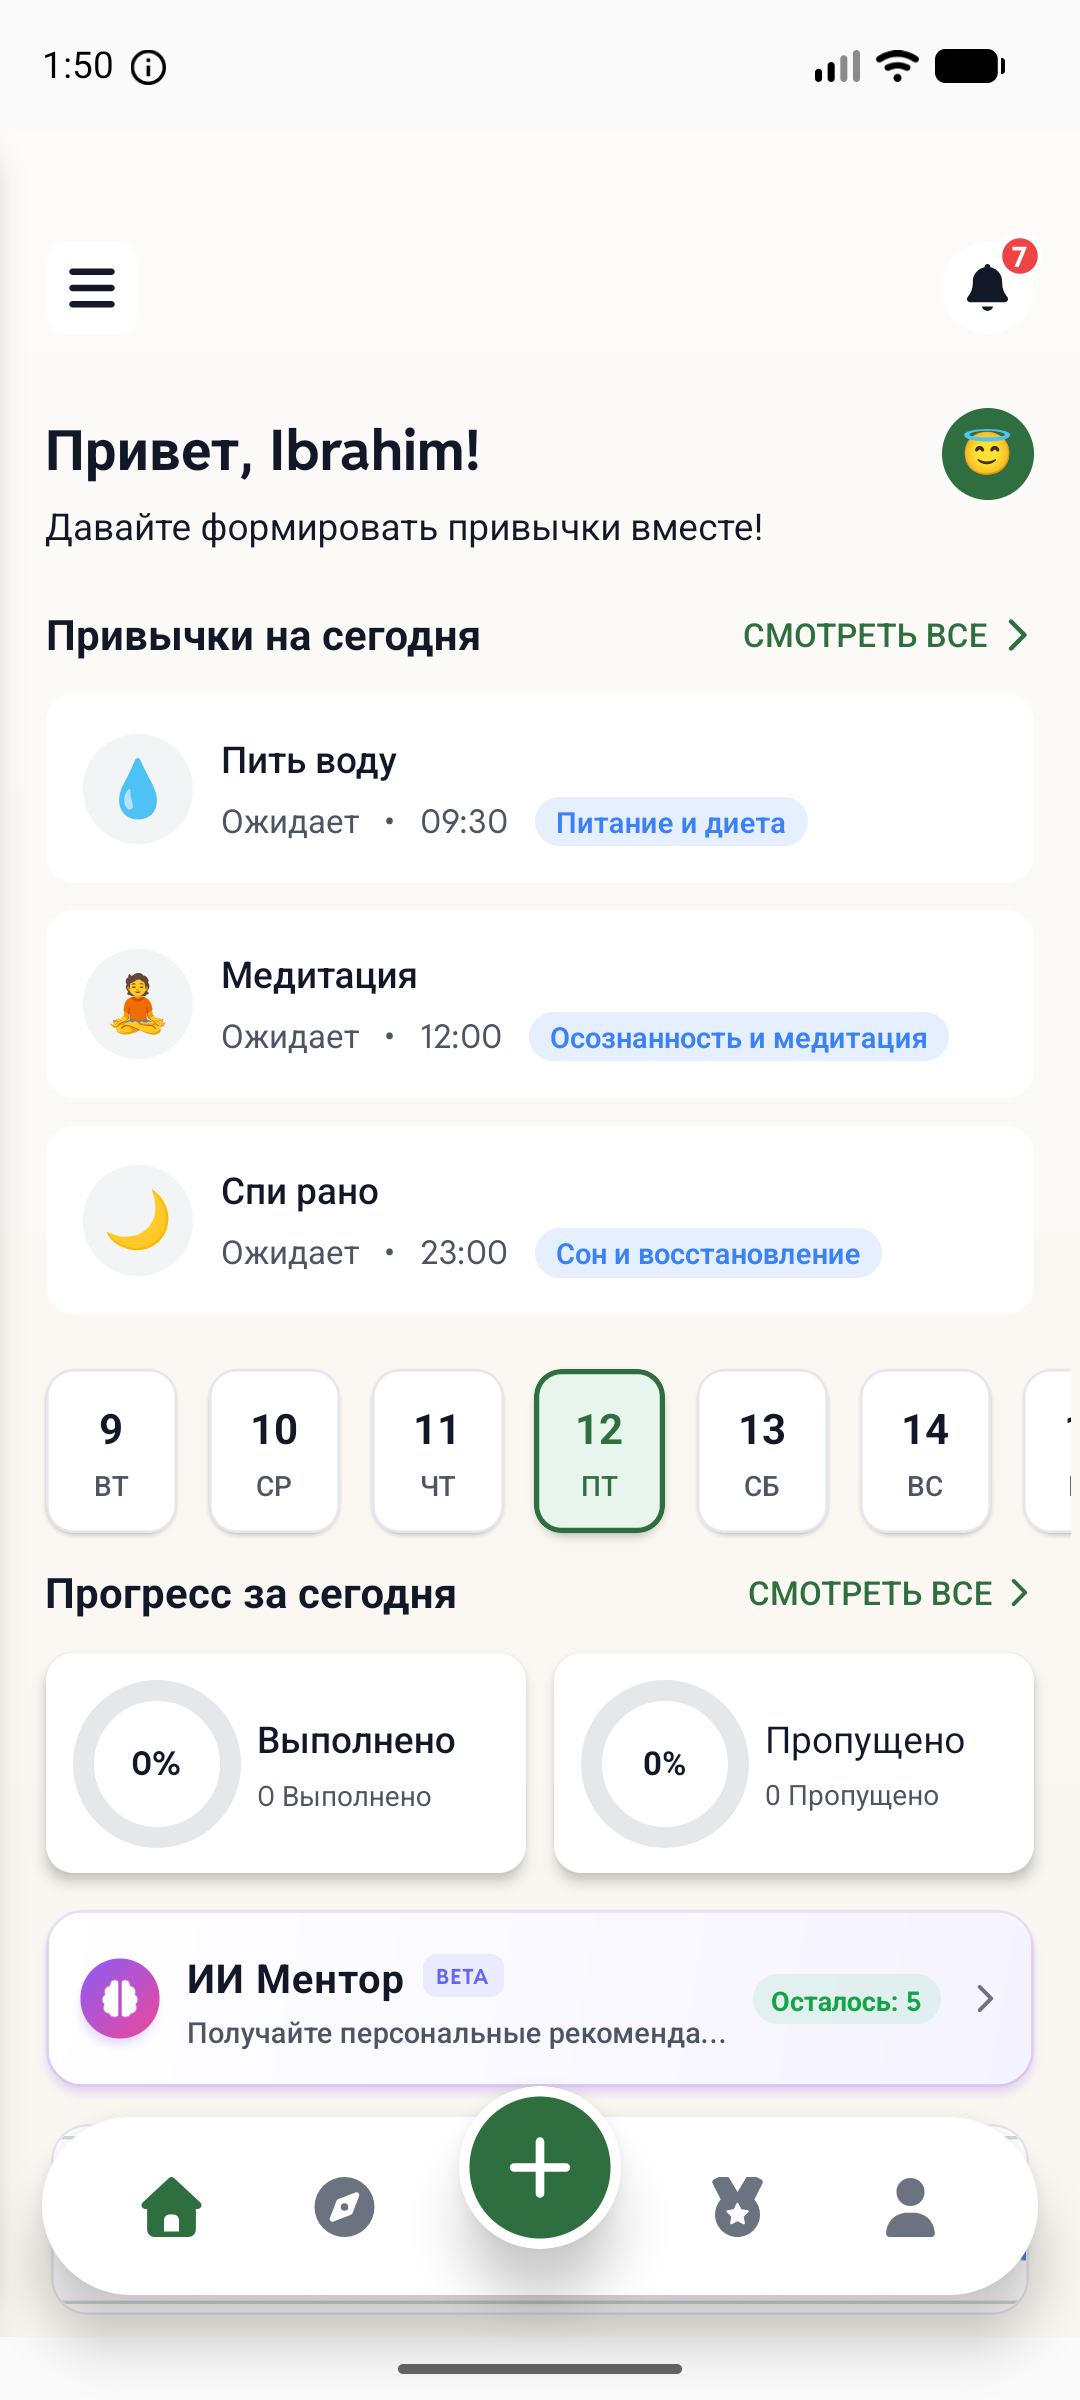
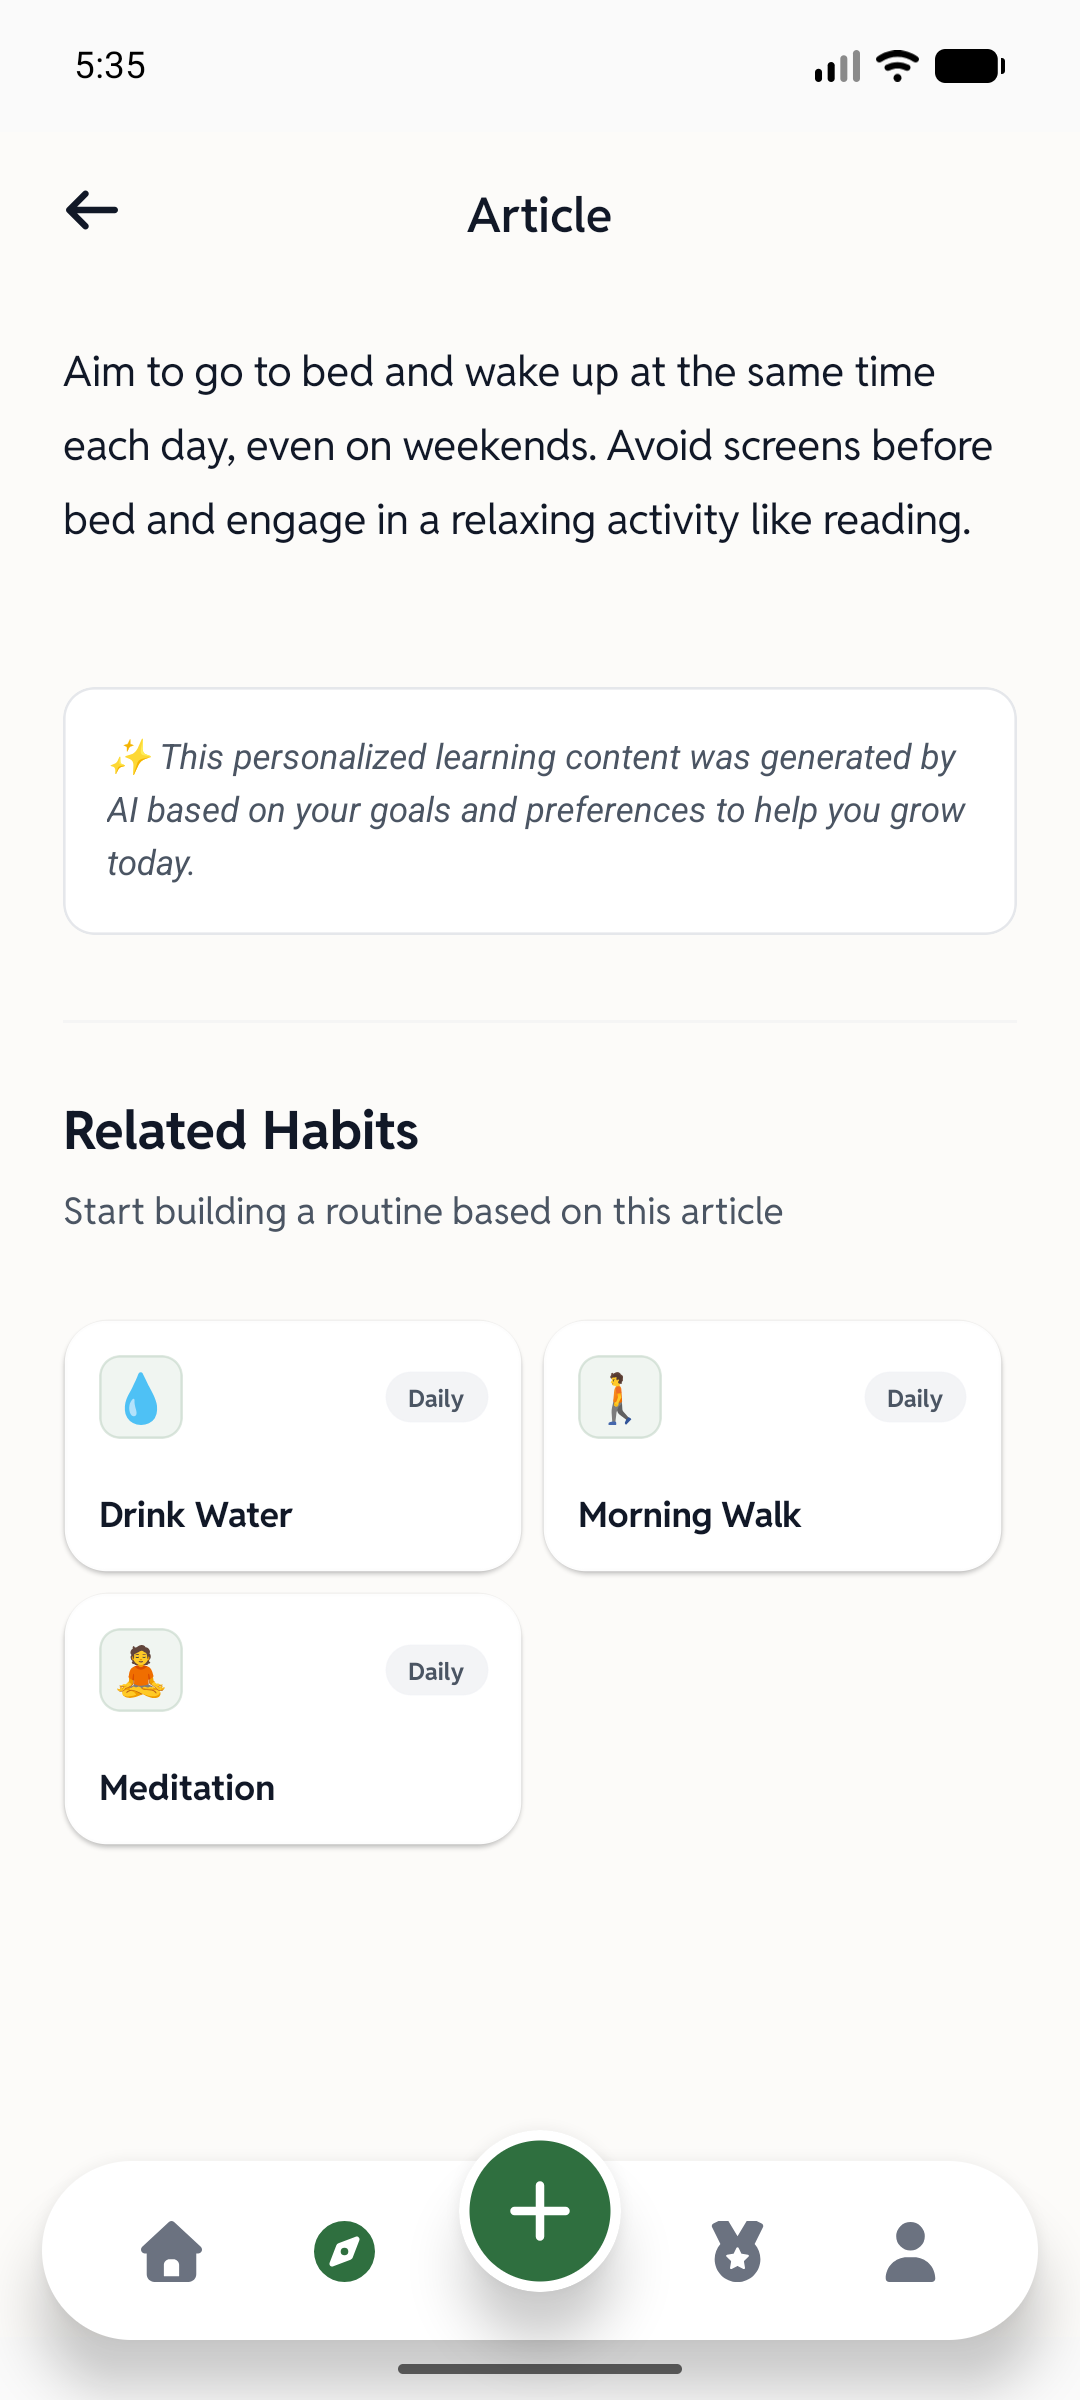
suggested learning ai mentor card added

diff --git a/src/screens/explore/ArticleDetailScreen.jsx b/src/screens/explore/ArticleDetailScreen.jsx
@@ -1,43 +1,43 @@
 import React, { useState, useEffect } from 'react';
-import { 
-  View, 
-  Text, 
-  StyleSheet, 
-  Image, 
-  ScrollView, 
+import {
+  View,
+  Text,
+  StyleSheet,
+  Image,
+  ScrollView,
   TouchableOpacity,
   StatusBar,
   SafeAreaView,
-  Dimensions
+  Dimensions,
+  ActivityIndicator
 } from 'react-native';
 import { useTranslation } from 'react-i18next';
-import { getTranslatedCategory } from '../../utils/habitTranslations';
+import { getTranslatedCategory, getTranslatedHabit } from '../../utils/habitTranslations';
 import { useMMKVString } from 'react-native-mmkv';
-import { markLearningContentAsReadFetch } from '../../utils/fetch';
+import { markLearningContentAsReadFetch, getUserSuggestedHabitsFetch, getUserHabitFetch } from '../../utils/fetch';
 import { FontAwesomeIcon } from '@fortawesome/react-native-fontawesome';
-import { faArrowLeft, faCheckCircle, faClock } from '@fortawesome/free-solid-svg-icons';
+import { faArrowLeft, faCheckCircle, faClock, faBrain } from '@fortawesome/free-solid-svg-icons';
 import { useTheme } from '../../context/ThemeContext';
 import { useNavigation, useRoute } from '@react-navigation/native';
+import SuggestedHabitCard from '../../components/SuggestedHabitCard';
 
 const ArticleDetailScreen = () => {
   const { theme } = useTheme();
   const { colors } = theme;
   const navigation = useNavigation();
   const route = useRoute();
-  
+
   // Extract article data passed from Explore screen
   const { article } = route.params || {};
   const { t, i18n } = useTranslation();
 
   const { height } = Dimensions.get('window');
 
-  if (!article) return null;
-
   const [token] = useMMKVString('accessToken');
-  const [isReadLocal, setIsReadLocal] = useState(article.isRead);
+  const [isReadLocal, setIsReadLocal] = useState(article?.isRead || false);
 
   useEffect(() => {
-    if (!article.isRead && token && article.id) {
+    if (article && !article.isRead && token && article.id) {
       markLearningContentAsReadFetch(token, article.id)
         .then(res => {
           if (res.success !== false) { // it might just return the updated DTO, checking strictly false is safer if format varies
@@ -46,7 +46,105 @@ const ArticleDetailScreen = () => {
         })
         .catch(err => console.log('Error marking as read:', err));
     }
-  }, [article.id, token]);
+  }, [article, token]);
+
+  const [relatedHabits, setRelatedHabits] = useState([]);
+  const [loadingHabits, setLoadingHabits] = useState(true);
+
+  useEffect(() => {
+    if (!token || !article.category) return;
+
+    const loadRelatedHabits = async () => {
+      try {
+        setLoadingHabits(true);
+        const suggestedRes = await getUserSuggestedHabitsFetch(token, 0, 100);
+        const suggestedList = suggestedRes?.data || [];
+
+        const userHabitsRes = await getUserHabitFetch(token, 0, 100);
+        const userHabitsList = userHabitsRes?.data || [];
+
+        const isHabitAlreadyAdded = (suggestedHabit, currentUserHabits) => {
+          if (!currentUserHabits || currentUserHabits.length === 0) return false;
+          const normalize = (str) => {
+            if (!str) return "";
+            return str.toString()
+              .toLowerCase()
+              .replace(/[.,/#!$%^&*;:{}=\-_`~()\s]/g, "")
+              .trim();
+          };
+          const { title: suggestedTitle } = getTranslatedHabit(suggestedHabit, i18n.language, t);
+          const normalizedSuggested = normalize(suggestedTitle);
+          const normalizedSuggestedRaw = normalize(suggestedHabit.title);
+          const suggestedId = String(suggestedHabit.id);
+
+          return currentUserHabits.some(userHabit => {
+            if (
+              String(userHabit.suggestedHabitId) === suggestedId ||
+              String(userHabit.habitId) === suggestedId ||
+              String(userHabit.id) === suggestedId
+            ) {
+              return true;
+            }
+            const { title: userHabitTitle } = getTranslatedHabit(userHabit, i18n.language, t);
+            const normalizedUserHabit = normalize(userHabitTitle);
+            const normalizedUserHabitRaw = normalize(userHabit.title);
+
+            if (normalizedSuggested && normalizedUserHabit && normalizedSuggested === normalizedUserHabit) return true;
+            if (normalizedSuggestedRaw && normalizedUserHabitRaw && normalizedSuggestedRaw === normalizedUserHabitRaw) return true;
+            if (normalizedSuggested && normalizedUserHabitRaw && normalizedSuggested === normalizedUserHabitRaw) return true;
+            if (normalizedSuggestedRaw && normalizedUserHabit && normalizedSuggestedRaw === normalizedUserHabit) return true;
+
+            if (userHabit.habit) {
+              const nestedHabitTitle = normalize(userHabit.habit.title);
+              if (nestedHabitTitle && (nestedHabitTitle === normalizedSuggested || nestedHabitTitle === normalizedSuggestedRaw)) return true;
+            }
+            return false;
+          });
+        };
+
+        const articleCategory = (article.category || 'General').toLowerCase().trim();
+        const filtered = suggestedList.filter(h => {
+          if (!h) return false;
+          if (isHabitAlreadyAdded(h, userHabitsList)) return false;
+          const habitCategory = (h.category || h.categoryDetails?.name || '').toLowerCase().trim();
+          return habitCategory === articleCategory;
+        });
+
+        setRelatedHabits(filtered);
+      } catch (err) {
+        console.log('Error loading related habits:', err);
+      } finally {
+        setLoadingHabits(false);
+      }
+    };
+
+    loadRelatedHabits();
+  }, [article.category, token, i18n.language, t]);
+
+  const handleSuggestedHabitPress = (habit) => {
+    navigation.navigate("CreateCustomHabit", {
+      habitData: {
+        id: habit.id,
+        title: habit.title,
+        description: habit.description || habit.title,
+        icon: habit.icon || "star",
+        category: habit.category || "General",
+        categoryId: habit.categoryId || null,
+        frequency: habit.frequency || "Daily",
+        targetValue: habit.targetValue || 1,
+        unit: habit.unit || "times",
+        incrementValue: habit.incrementValue || 1,
+        durationInMinutes: habit.durationInMinutes,
+        notificationTime: habit.notificationTime || habit.NotificationTime,
+        titleTranslations: habit.titleTranslations || habit.TitleTranslations,
+        descriptionTranslations: habit.descriptionTranslations || habit.DescriptionTranslations,
+      },
+      isCustom: false,
+      isSuggested: true
+    });
+  };
+
+  if (!article) return null;
 
   // Calculate read time based on word count (avg 200 words per minute)
   const wordCount = article.content ? article.content.trim().split(/\s+/).length : 0;
@@ -67,11 +165,11 @@ const ArticleDetailScreen = () => {
   return (
     <SafeAreaView style={[styles.safeArea, { backgroundColor: colors.background }]}>
       <StatusBar barStyle={theme.dark ? "light-content" : "dark-content"} />
-      
+
       {/* ── Fixed Header ── */}
       <View style={[styles.header, { backgroundColor: colors.background }]}>
-        <TouchableOpacity 
-          style={styles.backButton} 
+        <TouchableOpacity
+          style={styles.backButton}
           onPress={() => navigation.goBack()}
           hitSlop={{ top: 10, bottom: 10, left: 10, right: 10 }}
         >
@@ -81,14 +179,14 @@ const ArticleDetailScreen = () => {
         <View style={styles.headerRight} />
       </View>
 
-      <ScrollView 
+      <ScrollView
         showsVerticalScrollIndicator={false}
         contentContainerStyle={styles.scrollContent}
       >
         {/* ── Hero Image ── */}
         <View style={[styles.imageContainer, { height: height * 0.32 }]}>
-          <Image 
-            source={{ uri: highResImage }} 
+          <Image
+            source={{ uri: highResImage }}
             style={styles.image}
             resizeMode="cover"
           />
@@ -126,12 +224,63 @@ const ArticleDetailScreen = () => {
             {article.content}
           </Text>
 
-          {/* AI Disclaimer or Extra Info */}
-          <View style={[styles.aiDisclaimer, { backgroundColor: colors.card, borderColor: colors.border || '#333' }]}>
-            <Text style={[styles.aiText, { color: colors.textSecondary || '#aaa' }]}>
-              {t('explore.ai_disclaimer')}
-            </Text>
-          </View>
+          {/* Related Habits Carousel */}
+          {loadingHabits ? (
+            <View style={styles.loaderContainer}>
+              <ActivityIndicator size="small" color={colors.primary} />
+            </View>
+          ) : (
+            relatedHabits.length > 0 && (
+              <View style={styles.relatedSection}>
+                <Text style={[styles.sectionTitle, { color: colors.text }]}>
+                  {t('explore.related_habits')}
+                </Text>
+                <ScrollView
+                  horizontal
+                  showsHorizontalScrollIndicator={false}
+                  contentContainerStyle={styles.relatedList}
+                >
+                  {relatedHabits.map((habit) => (
+                    <SuggestedHabitCard
+                      key={habit.id}
+                      habit={habit}
+                      icon={habit.icon}
+                      name={habit.title}
+                      frequency={habit.frequency}
+                      onPress={() => handleSuggestedHabitPress(habit)}
+                    />
+                  ))}
+                </ScrollView>
+              </View>
+            )
+          )}
+
+          {/* Ask AI Mentor Card */}
+          <TouchableOpacity
+            style={[styles.aiMentorCard, { backgroundColor: colors.card, borderColor: colors.border || '#333' }]}
+            onPress={() => {
+              navigation.navigate('Home', {
+                screen: 'AIMentorChat',
+                params: {
+                  initialPrompt: t('explore.ask_ai_prompt', { title: article.title })
+                }
+              });
+            }}
+          >
+            <View style={styles.aiMentorHeader}>
+              <View style={[styles.aiMentorIconContainer, { backgroundColor: colors.primary + '15' }]}>
+                <FontAwesomeIcon icon={faBrain} size={20} color={colors.primary} />
+              </View>
+              <View style={styles.aiMentorTextContainer}>
+                <Text style={[styles.aiMentorTitle, { color: colors.text }]}>
+                  {t('explore.ask_ai_mentor')}
+                </Text>
+                <Text style={[styles.aiMentorDesc, { color: colors.textSecondary }]}>
+                  {t('explore.ask_ai_mentor_desc')}
+                </Text>
+              </View>
+            </View>
+          </TouchableOpacity>
 
         </View>
       </ScrollView>
@@ -226,19 +375,60 @@ const styles = StyleSheet.create({
     fontSize: 16,
     fontFamily: 'RedditSans-Regular',
     lineHeight: 28,
+    marginBottom: 20,
+  },
+  loaderContainer: {
+    paddingVertical: 20,
+    alignItems: 'center',
+    justifyContent: 'center',
+  },
+  relatedSection: {
+    marginTop: 20,
     marginBottom: 30,
   },
-  aiDisclaimer: {
+  sectionTitle: {
+    fontSize: 18,
+    fontFamily: 'RedditSans-Bold',
+    marginBottom: 15,
+  },
+  relatedList: {
+    paddingRight: 20,
+  },
+  aiMentorCard: {
     padding: 16,
     borderRadius: 12,
     borderWidth: 1,
-    marginTop: 20,
+    marginTop: 12,
+    shadowColor: "#000",
+    shadowOffset: { width: 0, height: 1 },
+    shadowOpacity: 0.05,
+    shadowRadius: 4,
+    elevation: 1,
   },
-  aiText: {
-    fontSize: 13,
+  aiMentorHeader: {
+    flexDirection: 'row',
+    alignItems: 'center',
+    gap: 14,
+  },
+  aiMentorIconContainer: {
+    width: 44,
+    height: 44,
+    borderRadius: 12,
+    alignItems: 'center',
+    justifyContent: 'center',
+  },
+  aiMentorTextContainer: {
+    flex: 1,
+    gap: 4,
+  },
+  aiMentorTitle: {
+    fontSize: 16,
+    fontFamily: 'RedditSans-Bold',
+  },
+  aiMentorDesc: {
+    fontSize: 12,
     fontFamily: 'RedditSans-Regular',
-    lineHeight: 20,
-    fontStyle: 'italic',
+    lineHeight: 16,
   }
 });
 

diff --git a/src/screens/home/AIMentorChatScreen.jsx b/src/screens/home/AIMentorChatScreen.jsx
@@ -1,4 +1,4 @@
-import React, { useState, useEffect, useRef } from "react";
+import React, { useState, useEffect, useRef, useCallback } from "react";
 import {
   View,
   Text,
@@ -14,7 +14,7 @@ import {
   Dimensions
 } from "react-native";
 import { useSafeAreaInsets } from "react-native-safe-area-context";
-import { useNavigation } from "@react-navigation/native";
+import { useNavigation, useRoute } from "@react-navigation/native";
 import { FontAwesomeIcon } from "@fortawesome/react-native-fontawesome";
 import { faArrowLeft, faPaperPlane, faLightbulb, faBrain, faStar } from "@fortawesome/free-solid-svg-icons";
 import { useTheme } from "../../context/ThemeContext";
@@ -29,6 +29,7 @@ import LinearGradient from "react-native-linear-gradient";
 
 const AIMentorChatScreen = () => {
   const navigation = useNavigation();
+  const route = useRoute();
   const insets = useSafeAreaInsets();
   const { theme, isDark } = useTheme();
   const { colors } = theme;
@@ -62,8 +63,16 @@ const AIMentorChatScreen = () => {
     };
   }, []);
 
+  useEffect(() => {
+    const params = route.params;
+    if (params?.initialPrompt) {
+      setInputMessage(params.initialPrompt);
+      navigation.setParams({ initialPrompt: undefined });
+    }
+  }, [route.params, navigation]);
+
   // Gündəlik limiti yükləyirik
-  const syncRemainingMessages = async () => {
+  const syncRemainingMessages = useCallback(async () => {
     try {
       const today = new Date().toISOString().split("T")[0];
       const lastDate = storage.getString(getAiMentorLastActiveDateKey(token));
@@ -91,7 +100,7 @@ const AIMentorChatScreen = () => {
       console.log("Error syncing limit:", e);
       setRemainingMessages(5);
     }
-  };
+  }, [token]);
 
   // Söhbət tarixçəsini yükləyirik
   useEffect(() => {
@@ -123,7 +132,7 @@ const AIMentorChatScreen = () => {
     } catch (e) {
       console.log("Error loading chat history:", e);
     }
-  }, [t, token]);
+  }, [t, token, syncRemainingMessages]);
 
   // Dil dəyişəndə salamlaşma mesajını yenilə (köhnə dildə qalmaması üçün)
   useEffect(() => {